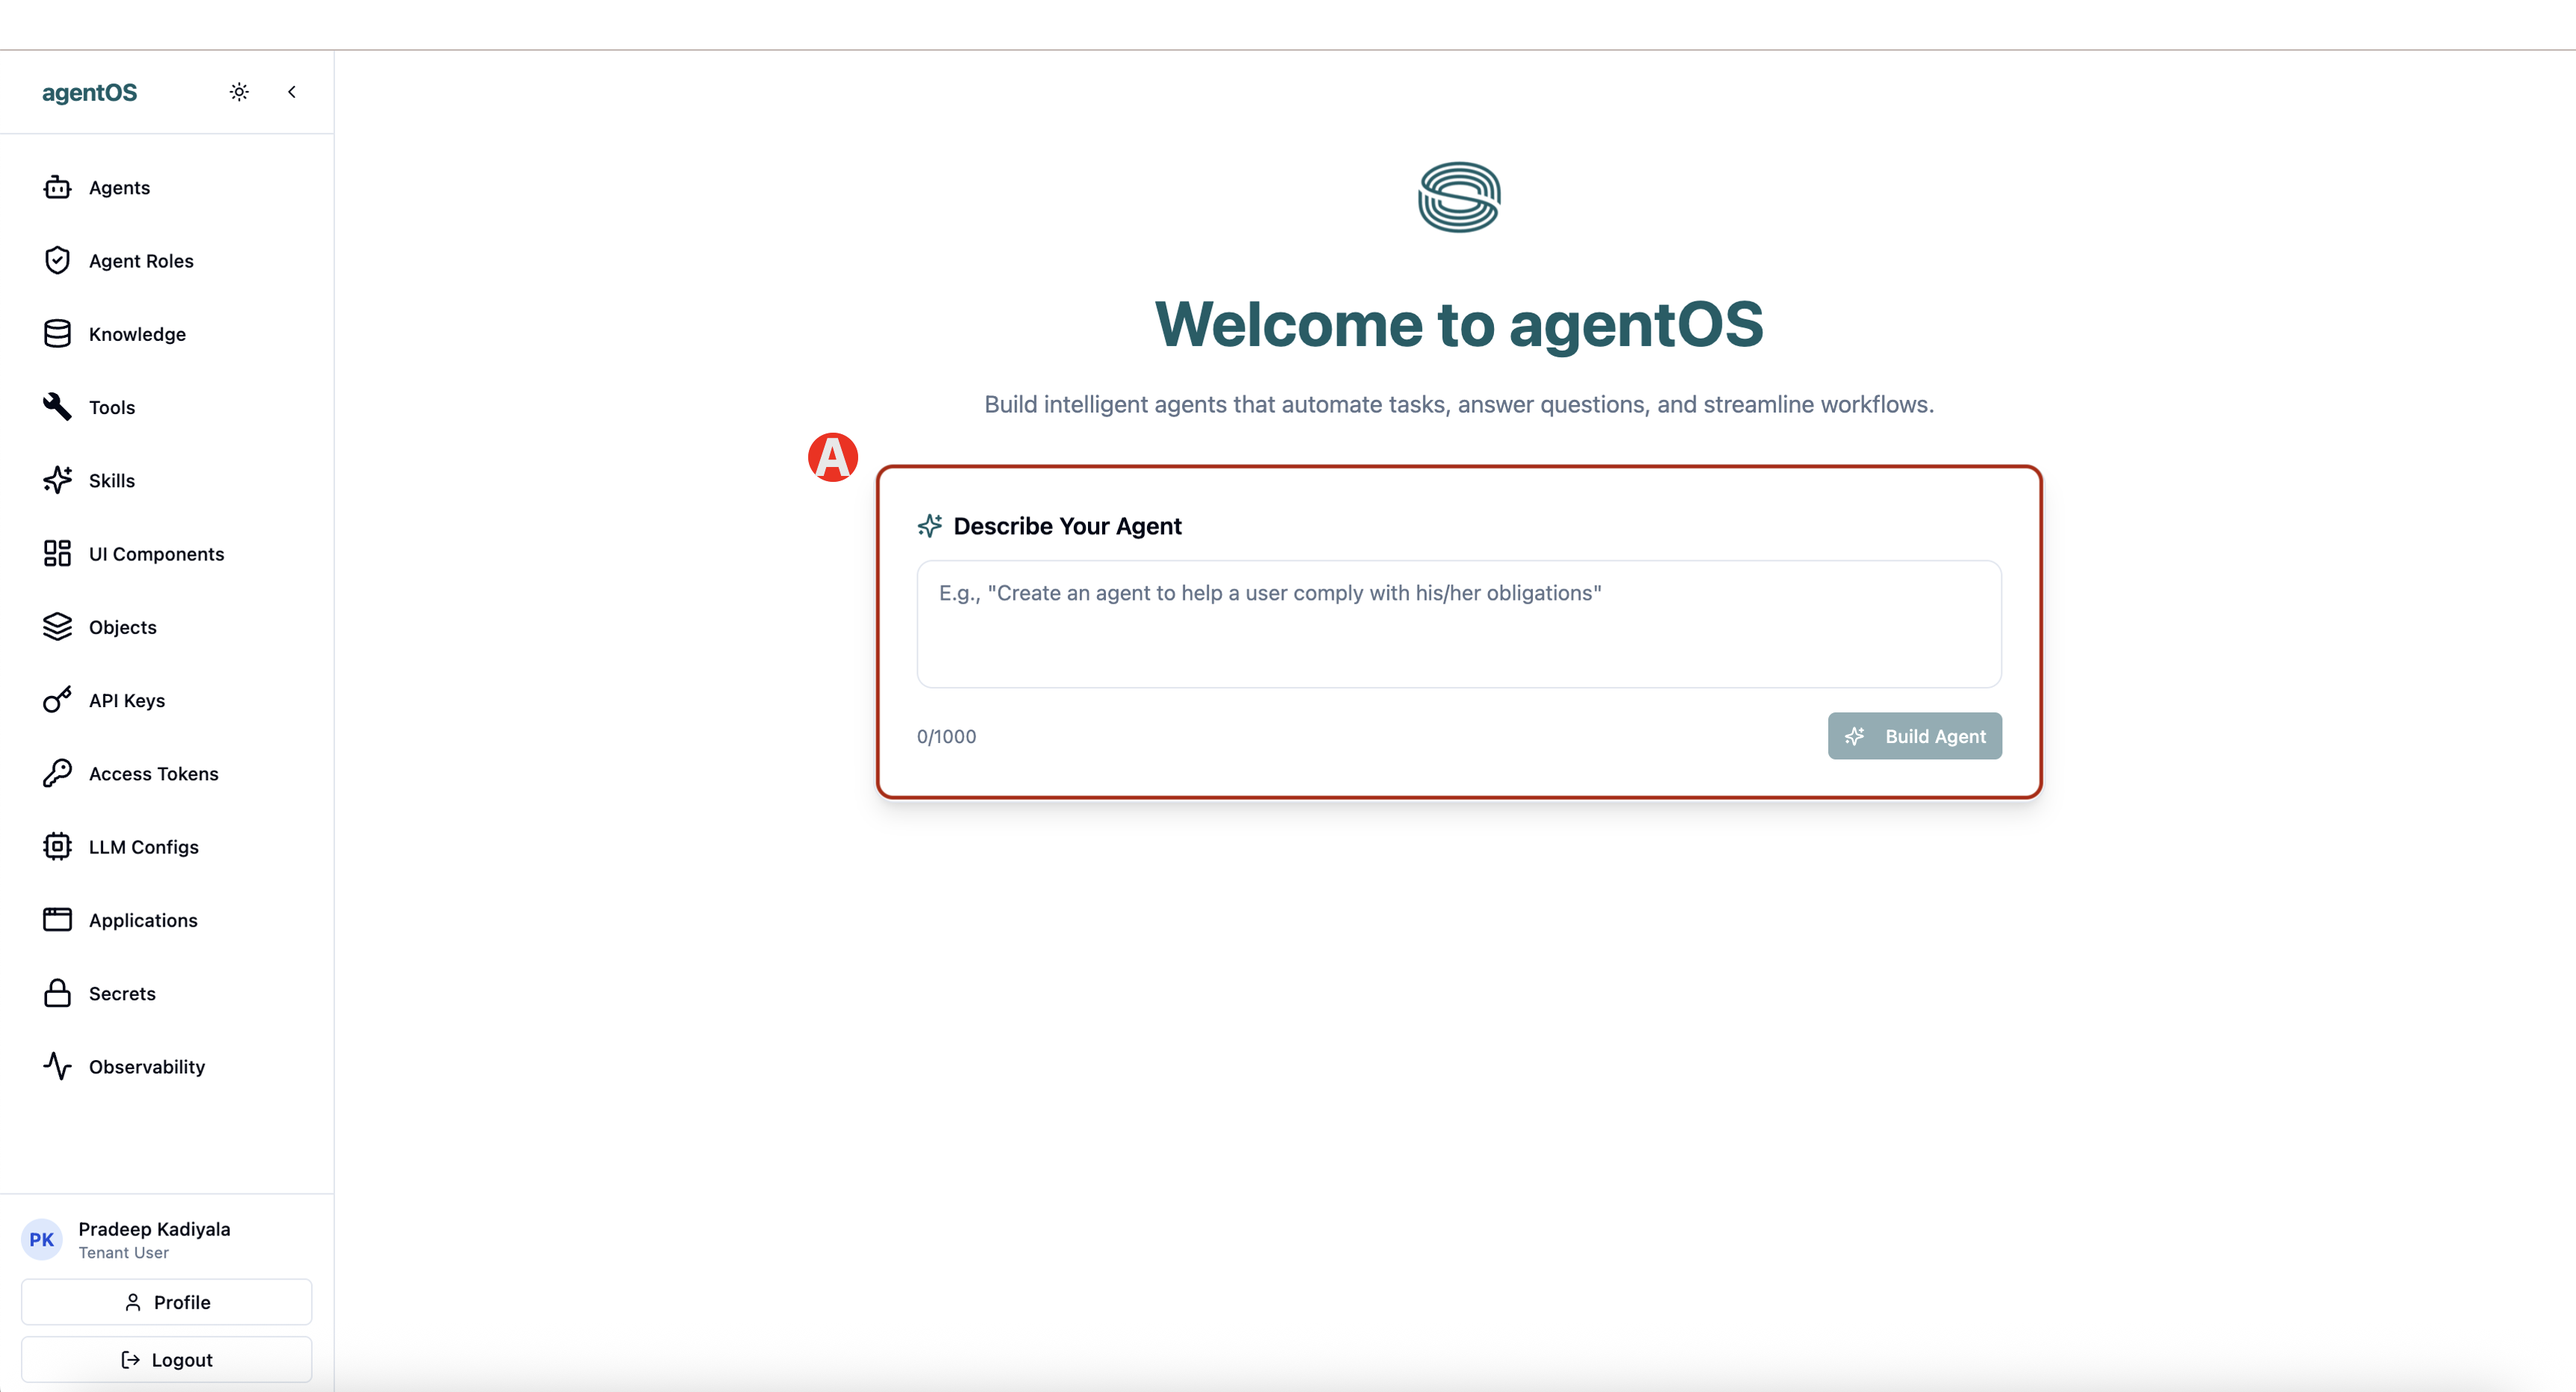
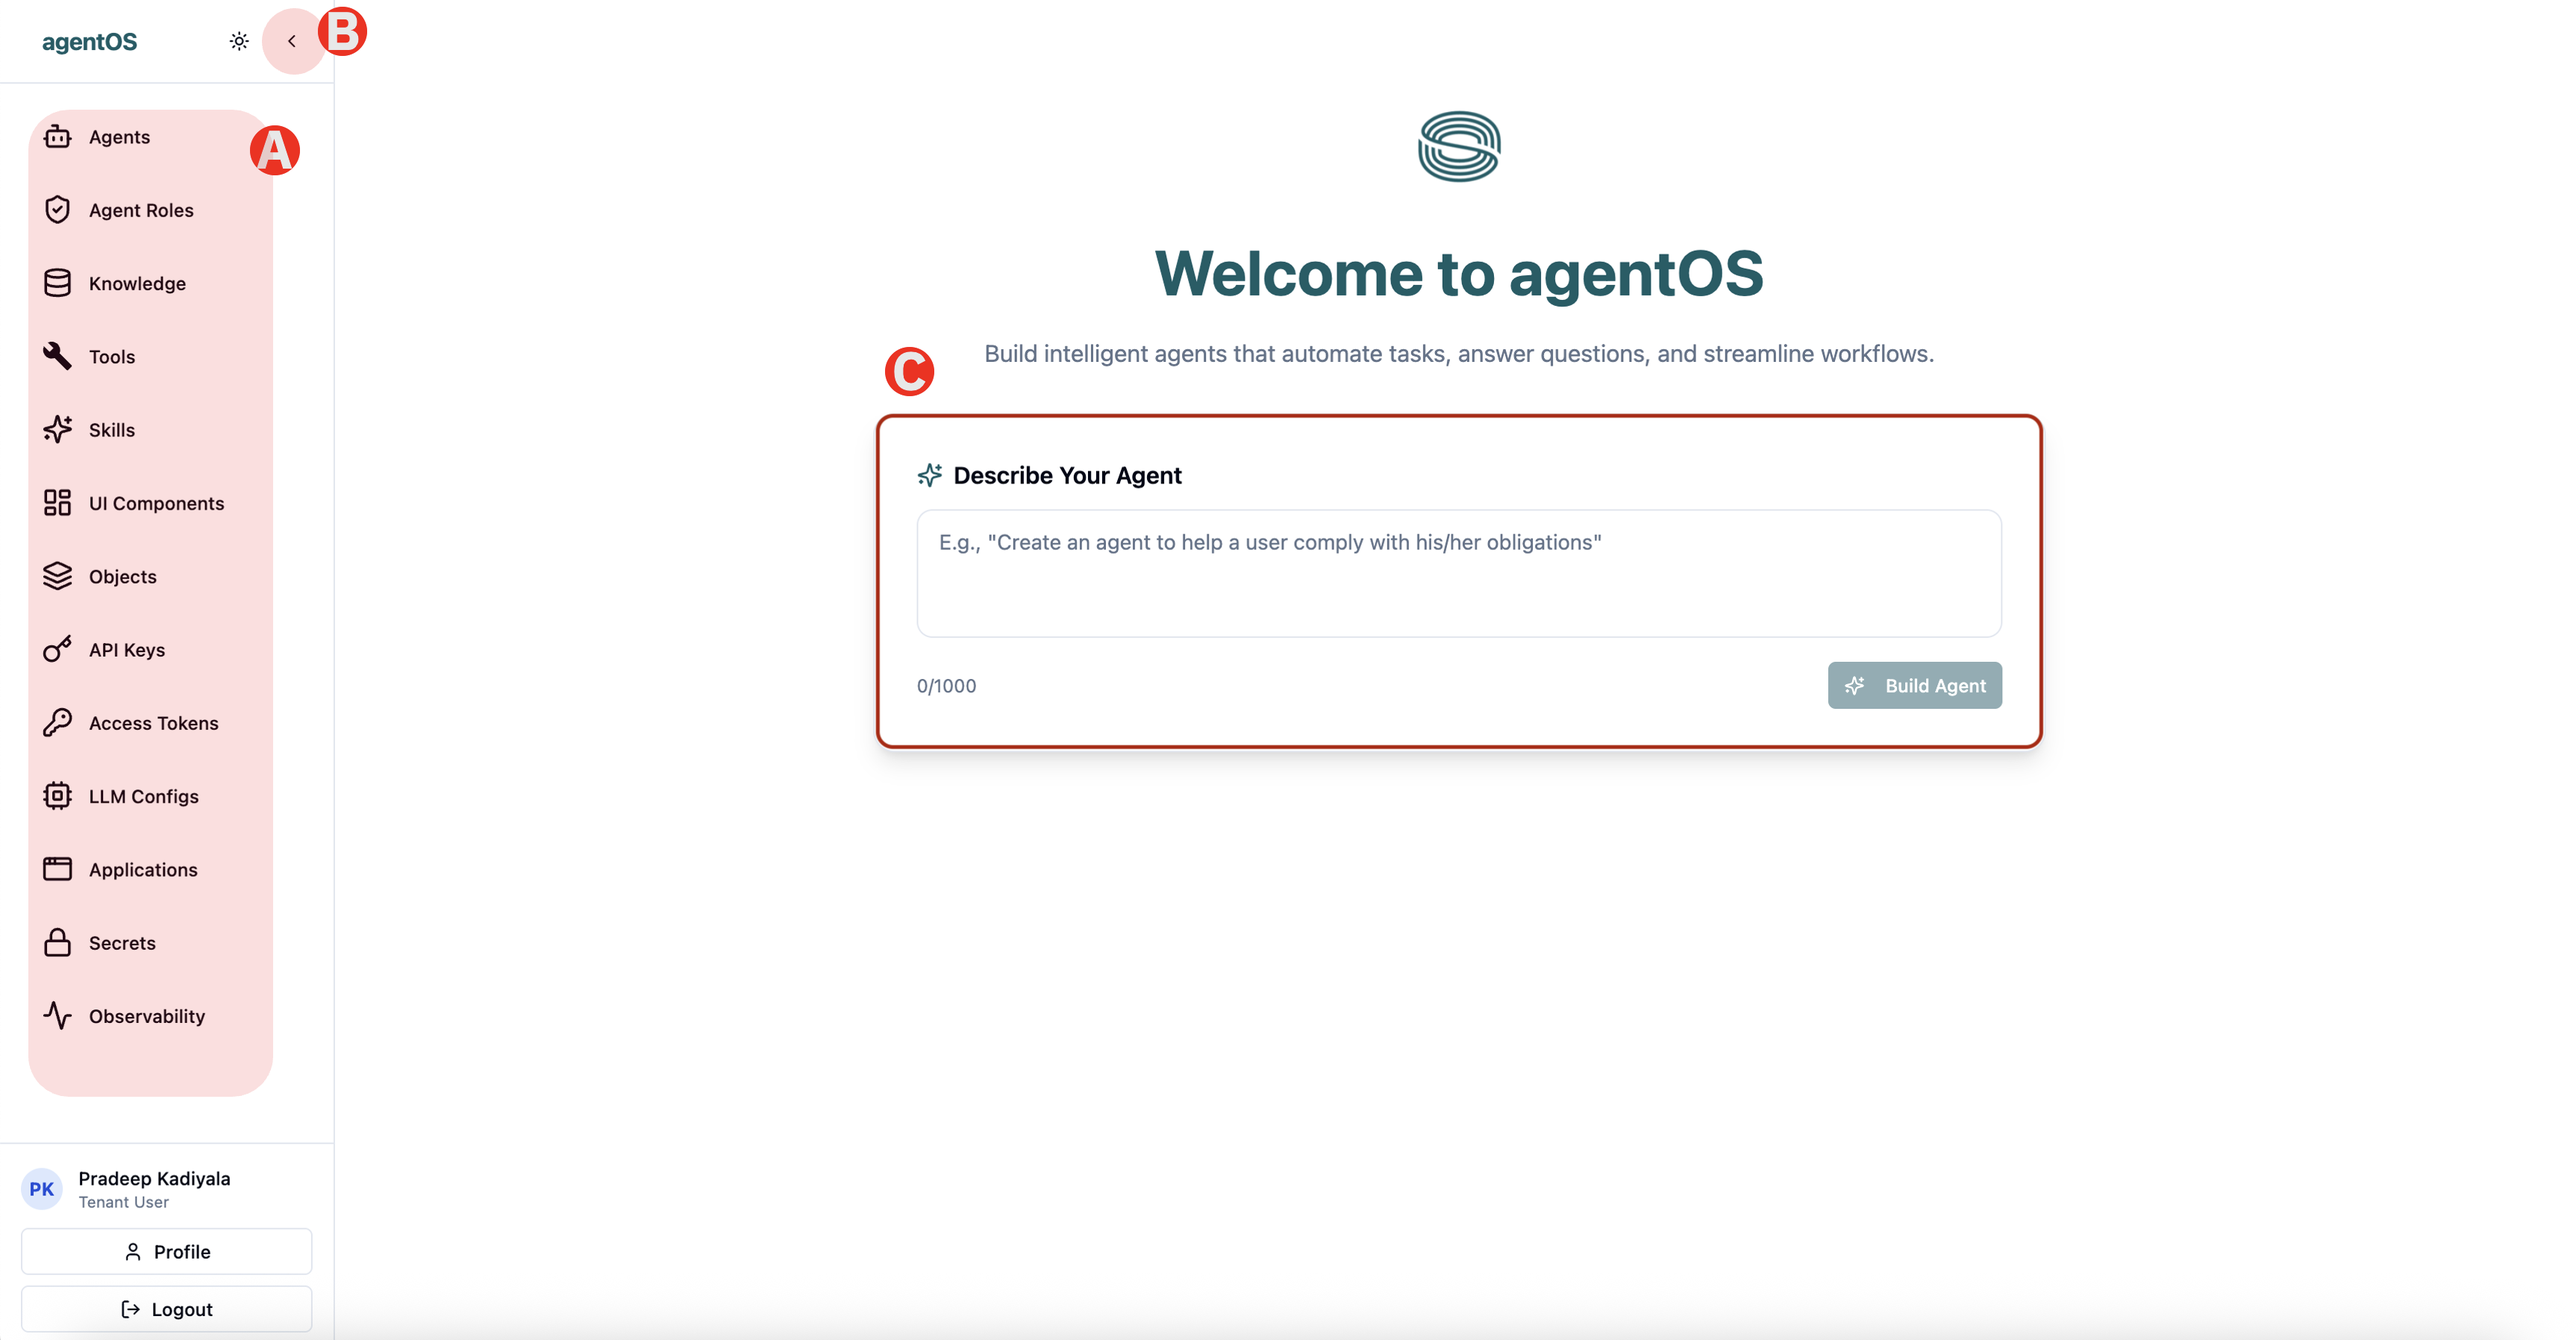
Added Agent API Key

diff --git a/docs/lab1/05-api.md b/docs/lab1/05-api.md
@@ -1,0 +1,53 @@
+# 1.4 Generate Agent API Key
+
+Here you will generate API Key to integrate with the Agent that you just ceated. Once you create the API token you will be using that in the next section where you will deploy an application in IBM Cloud Serverless projects
+
+To generate API Key follow the steps
+
+## Step 1 - Navigate to API Keys
+
+![API-END-POINT-IMAGE](images/api_endpoints.png)
+
+(A) Under Main Menu click on API Keys
+
+(B) Get the API endpoint and save it temporarily in a text file
+
+(C) Click Generate API Key on top right corner. A dialogue box will open to Generate API Key
+
+## Step 2 - Generate API Key
+
+![Generate-API-Key](images/generate_apikey.png)
+
+Enter the following fields
+
+(A) - Enter a unique name (eg - yourname and company)
+
+(B) - Give any description (eg - Which industry your company is in)
+
+(C) - Leave rest of the fields as is and click the button "Generate API Key". 
+
+## Step 3 - Save the API Key
+
+![Copy-Api-Key-Image](images/copy_apikey.png)
+
+(A) Copy the API Key generated and save it in a text file for the next section
+
+> Sometimes the copy button doesnt work so manually select and copy the API Key
+
+---
+
+## ✅ Checkpoint
+
+Before you got to next section make sure you save the:
+
+- [ ] API Endpoint 
+- [ ] API Key.
+
+---
+
+**You have successfully completed the first section "Build Agents on agentOS".**
+
+## 🎉 Congratulations! 🎉
+
+Now that you have created an Agent for a specific industry use case which is identifying the risks for a given contract, we will integrate this Agent with an existing Enterprise Application and deploy on IBM Cloud Serverless Project
+

diff --git a/docs/_sidebar.md b/docs/_sidebar.md
@@ -4,13 +4,14 @@
   * [Introduction](README.md)
   * [Prerequisites](overview/prerequisites.md)
 
-* **Section 1 — Building Agents on Sirion AgentOS**
+* **Build Agents on agentOS**
   * [1.1 Build the Agent](lab1/01-build-agent.md)
   * [1.2 Configure the Agent](lab1/02-configure-agent.md)
   * [1.3 Run the Agent](lab1/03-run.md)
-  * [1.4 Integrate Deterministic UI](lab1/04-deterministic-ui.md)
+  * [1.4 Create Deterministic UI](lab1/04-deterministic-ui.md)
+  * [1.5 Get Agent API Key](lab1/05-api.md)
 
-* **Section 2 — Deploying Agents on IBM Cloud Serverless Code Engine**
+* **Deploy Agent App to IBM Cloud**
   * [2.1 Create Project](lab2/01-letters-of-credit.md)
   * [2.2 Deploy Agentic workflow application](lab2/02-bank-guarantees.md)
   * [2.3 Test the Application](lab2/03-documentary-collections.md)

diff --git a/docs/lab1/01-build-agent.md b/docs/lab1/01-build-agent.md
@@ -14,7 +14,13 @@ agentOS credentials are provided to each attendees. Use your credentials to logi
 
 ## Step 2 —	Describe the Agent
 
-From the agentOS home page, click into the Describe Your Agent box
+After you login you will be taken to  agentOS home page. Here you will see the following
+
+(A) This is the Main Menu to navigate through different sections of agentOS
+
+(B) You can expand and collapse the main menu using the arrow icon
+
+(C) click into the Describe Your Agent box
 
 ![decribe-agent-image](images/describe-agent.png)
 
@@ -103,4 +109,4 @@ Before moving to the next section, confirm:
 
 ---
 
-*Next: [1.2 Configure Agent →](lab1/02-configure-agent.md)*
+*Next: [1.2 Configure Agent →](/lab1/02-configure-agent.md)*
